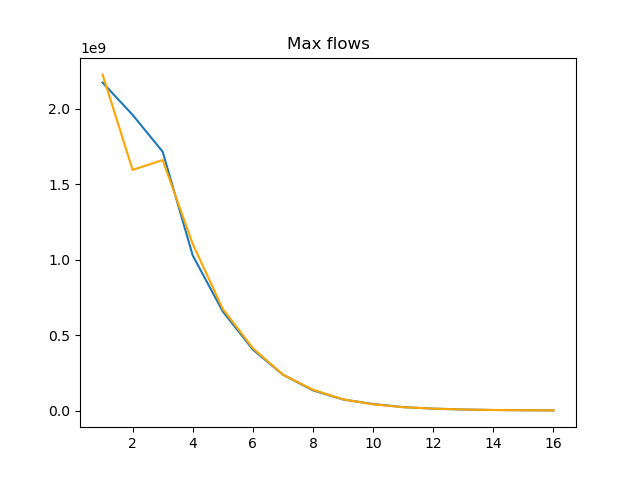
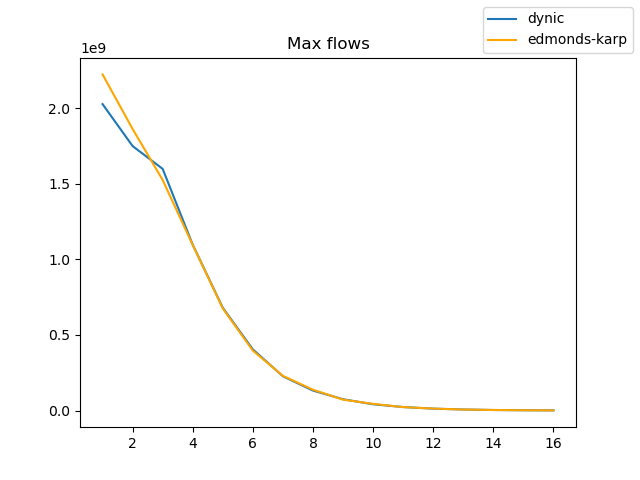
Fixed legend

diff --git a/Discrete optimization algorithms/List4/Ex4/gen_compared_results.py b/Discrete optimization algorithms/List4/Ex4/gen_compared_results.py
@@ -16,10 +16,16 @@ def saveGraph(graph_name,
               file_name,
               x_ax,
               y_ax,
-              y_ax_2):
+              y_ax_2,
+              upper_right):
     plt.title(graph_name)
     plt.plot(x_ax, y_ax, label="dynic")
     plt.plot(x_ax, y_ax_2, label="edmonds-karp", color="orange")
+
+    if upper_right:
+        plt.figlegend(loc="upper right")
+    else:
+        plt.figlegend(loc="upper left")
 
     plt.savefig(file_name)
     plt.clf()
@@ -73,9 +79,9 @@ def main():
         print(f'Finished {i}')
 
     K = [k + 1 for k in range(16)]
-    saveGraph("Max flows", "max_flow", K, final_flows_dynic, final_flows_edm)
-    saveGraph("Time", "time", K, final_times_dynic, final_times_edm)
-    saveGraph("Paths count", "paths_count", K, final_paths_count_dynic, final_paths_count_edm)
+    saveGraph("Max flows", "max_flow", K, final_flows_dynic, final_flows_edm, True)
+    saveGraph("Time", "time", K, final_times_dynic, final_times_edm, False)
+    saveGraph("Paths count", "paths_count", K, final_paths_count_dynic, final_paths_count_edm, False)
 
 
 if __name__ == '__main__':
